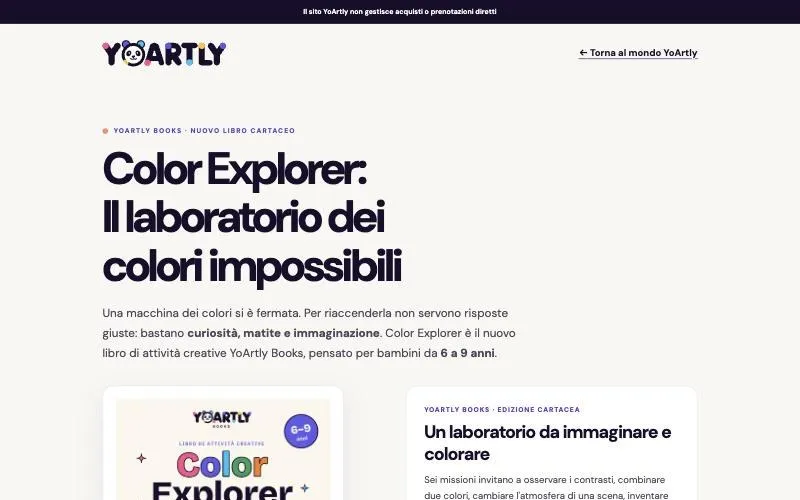
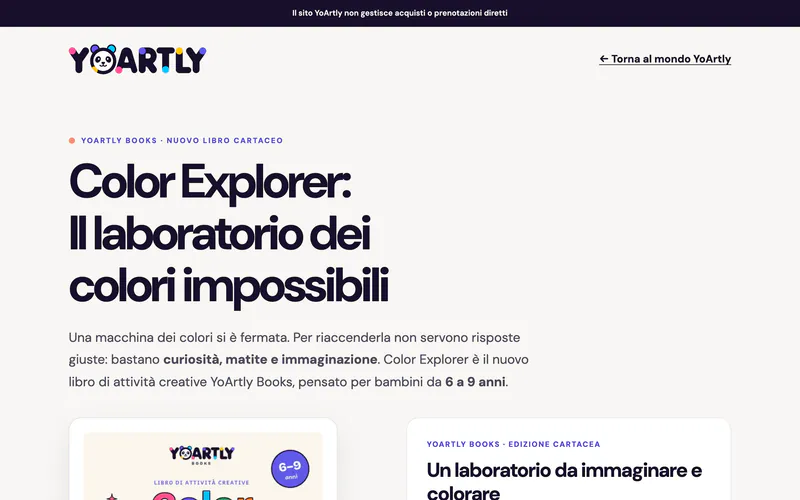
fix(c3): qualità visiva C.3.6 — titoli a gradiente, anteprime HD, stato e pannello cookie
- .c3-grad (token condiviso): con background-clip:text e tracking negativo
  l'ultima lettera usciva dal box dello span e veniva tagliata in verticale
  (la «g» di «Il Blog»). Area dipinta allargata con padding compensato da
  margine negativo: layout invariato. Stessa correzione per il nastro e per
  le parole a gradiente in linea delle pagine non C.3.
- Anteprime portfolio pf-*: sorgente 800×500 ingrandita fino a 3,2× nel case
  study. Nuove catture native 2560×1600 dei siti pubblicati (stessa
  inquadratura), varianti WebP reali 800/1280/1920/2560 e srcset/sizes
  misurati su home, Competenze, portfolio e case study.
- Cornici "contain": object-fit scale-down (mai oltre la risoluzione reale);
  Patrizia Sabbadin e logo Premio Arte passano a fit contain (nessuna
  sorgente più grande disponibile).
- .c3-status: le etichette lunghe uscivano dalla colonna su mobile e venivano
  tagliate; ora vanno a capo dentro il contenitore.
- Pannello cookie, tema scuro: riga Analytics illeggibile in hover, testo
  ione profondo su grafite e hover dei pulsanti uguale al fondo. Stati scuri
  con token ione (contrasto ≥ 7,27:1). Logica del consenso invariata.

Nessuna modifica a URL, title, description, H1, canonical, robots, JSON-LD,
link SEO, form/API/CRM o tracciamento.

diff --git a/src/styles/c3/pages.css b/src/styles/c3/pages.css
@@ -464,15 +464,21 @@
   align-items: center;
   gap: 8px;
   padding: 5px 12px;
-  border-radius: 999px;
+  /* resta una pillola su una riga; su due righe diventa un rettangolo arrotondato */
+  border-radius: 1.2em;
   font: 600 12.5px/1.2 var(--c3-text);
   letter-spacing: 0.02em;
   border: 1px solid var(--line);
   color: var(--ink);
   background: color-mix(in srgb, var(--panel) 80%, transparent);
-  white-space: nowrap;
+  /* le etichette lunghe («Piattaforma indipendente · In validazione») andavano
+   * a capo fuori dalla colonna e venivano tagliate su mobile: ora restano
+   * dentro il contenitore */
+  max-width: 100%;
+  overflow-wrap: break-word;
 }
 .c3-status::before {
+  flex: none;
   content: "";
   width: 7px;
   height: 7px;
@@ -823,7 +829,8 @@
   background: var(--c3-white);
 }
 .c3-wcard-img.is-contain img {
-  object-fit: contain;
+  /* come contain, ma senza mai ingrandire oltre la risoluzione reale */
+  object-fit: scale-down;
   padding: 8%;
 }
 .c3-wcard a:hover .c3-wcard-img img {
@@ -903,7 +910,7 @@
 }
 .c3-cover.is-contain img {
   max-height: 420px;
-  object-fit: contain;
+  object-fit: scale-down;
   padding: 6% 10%;
 }
 .c3-cover-band {

diff --git a/src/data/c3/home.ts b/src/data/c3/home.ts
@@ -27,6 +27,19 @@ export interface PortfolioExtra {
   features: string[];
 }
 
+/**
+ * Anteprime dei progetti (/images/c3/pf-*.webp): catturate a 2560×1600 dalla
+ * homepage pubblicata e salvate in quattro larghezze reali (800, 1280, 1920,
+ * 2560). Restituisce lo srcset per le anteprime note, `undefined` per le altre
+ * immagini (che restano a sorgente singola).
+ */
+export function shotSrcset(src?: string): string | undefined {
+  const m = src?.match(/^(\/images\/c3\/pf-[a-z-]+)\.webp$/);
+  if (!m) return undefined;
+  const b = m[1];
+  return `${b}.webp 800w, ${b}-1280.webp 1280w, ${b}-1920.webp 1920w, ${b}-2560.webp 2560w`;
+}
+
 export const PORTFOLIO: PortfolioExtra[] = [
   {
     id: "preventivodentale",

diff --git a/src/styles/c3/tokens.css b/src/styles/c3/tokens.css
@@ -370,7 +370,13 @@ html:has(#c3-root) body {
   color: var(--link);
   box-decoration-break: clone;
   -webkit-box-decoration-break: clone;
-  padding-bottom: 0.06em;
+  /* Con il riempimento trasparente il gradiente esiste solo dentro il box
+   * dello span: col tracking negativo dei titoli il disegno dell'ultima (e
+   * della prima) lettera supera il box e veniva tagliato in verticale (la «g»
+   * di «Il Blog»). Il padding allarga l'area dipinta, il margine negativo
+   * identico lo compensa: nessuno spostamento del testo. */
+  padding: 0 0.12em 0.06em;
+  margin: 0 -0.12em;
 }
 @supports not ((-webkit-background-clip: text) or (background-clip: text)) {
   .c3-grad {

diff --git a/src/styles/c3/global.css b/src/styles/c3/global.css
@@ -113,6 +113,13 @@ h3 {
     box-decoration-break: clone;
     -webkit-box-decoration-break: clone;
   }
+  /* Parole a gradiente in linea (span): l'area dipinta coincide con il box
+   * dello span e taglierebbe l'ultima lettera. Padding finale compensato dal
+   * margine negativo: layout invariato, margini sinistri (ml-*) intatti. */
+  span.bg-clip-text.text-transparent:not(.c3 *) {
+    padding-inline-end: 0.12em;
+    margin-inline-end: -0.12em;
+  }
   html.dark main h1:not(.c3 *),
   html.dark .bg-clip-text.text-transparent:not(.c3 *) {
     background-image: var(--c3-grad-on-dark) !important;

diff --git a/src/styles/c3/home.css b/src/styles/c3/home.css
@@ -1516,6 +1516,9 @@
   -webkit-background-clip: text;
   background-clip: text;
   -webkit-text-fill-color: transparent;
+  /* stessa compensazione di .c3-grad: l'ultima lettera non viene tagliata */
+  padding-inline: 0.12em;
+  margin-inline: -0.12em;
 }
 
 /* Luce d'ambiente selettiva (mai dietro al testo corrente) */
